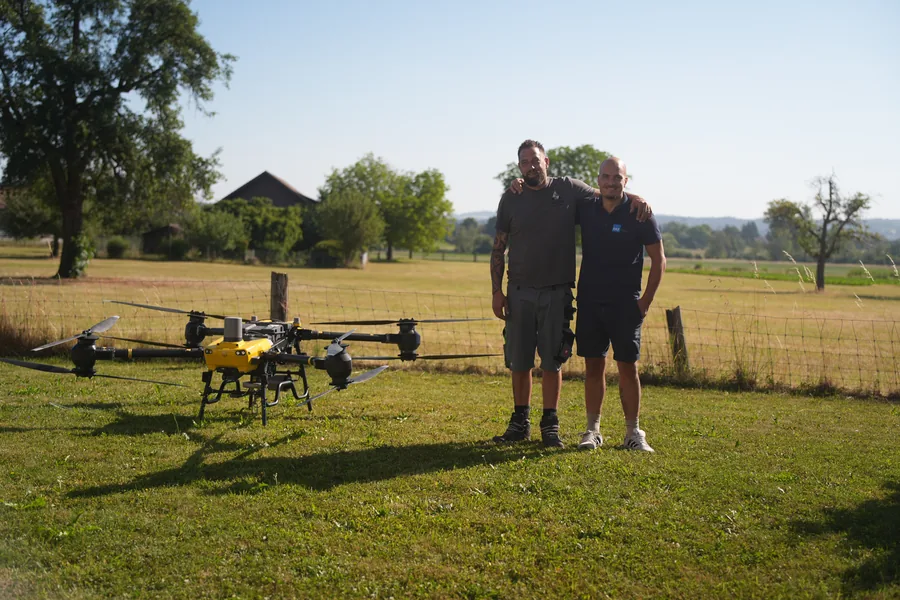
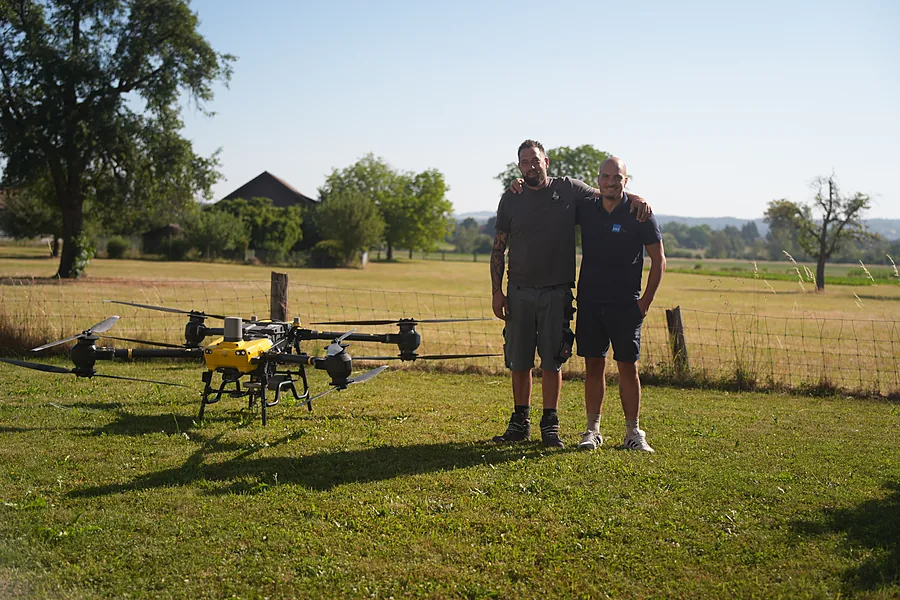
Slider: Fotos nachgeschärft, Fassung 3840 px, schärfere Alternative 113 zur Wahl (VES-026)
Claude-Session: https://claude.ai/code/session_01AmTsxfm8VPSTvFxMghAZew

diff --git a/entwuerfe/entwurf-e.html b/entwuerfe/entwurf-e.html
@@ -218,11 +218,11 @@ html[data-cap="ohne"] .cap{display:none}
 
 <div class="hero2" id="hero">
  <div class="slides" id="slides">
-  <figure class="slide on" data-t="Module kommen per Drohne aufs Dach" data-s="10:10" style="--d:50% 18%;--m:52% 20%"><img src="../fotos/auftrag/modul-annahme-1600.webp" srcset="../fotos/auftrag/modul-annahme-900.webp 900w, ../fotos/auftrag/modul-annahme-1600.webp 1600w, ../fotos/auftrag/modul-annahme-2400.webp 2400w, ../fotos/auftrag/modul-annahme-3200.webp 3200w" sizes="(max-width: 900px) 760px, 100vw" alt="Ein Solarmodul schwebt an der Drohne heran, drei Monteure auf dem Gerüst strecken die Hände danach"></figure>
-  <figure class="slide" data-t="Oben nimmt das Team sie an" data-s="10:10" style="--d:60% 35%;--m:66% 30%"><img src="../fotos/auftrag/team-geruest-1600.webp" srcset="../fotos/auftrag/team-geruest-900.webp 900w, ../fotos/auftrag/team-geruest-1600.webp 1600w, ../fotos/auftrag/team-geruest-2400.webp 2400w, ../fotos/auftrag/team-geruest-3200.webp 3200w" sizes="(max-width: 900px) 760px, 100vw" alt="Zwei Monteure mit Helm auf dem Gerüst schauen dem nächsten Modul entgegen" loading="lazy"></figure>
-  <figure class="slide" data-t="Der Pilot fliegt vom Kamin aus" data-s="09:44" style="--d:55% 40%;--m:52% 45%"><img src="../fotos/auftrag/pilot-kamin-1600.webp" srcset="../fotos/auftrag/pilot-kamin-900.webp 900w, ../fotos/auftrag/pilot-kamin-1600.webp 1600w, ../fotos/auftrag/pilot-kamin-2400.webp 2400w, ../fotos/auftrag/pilot-kamin-3200.webp 3200w" sizes="(max-width: 900px) 760px, 100vw" alt="Der Drohnenpilot sitzt mit Helm und Fernsteuerung auf dem Kamin" loading="lazy"></figure>
-  <figure class="slide" data-t="Unterbau ab halb acht" data-s="07:33" style="--d:50% 40%;--m:52% 40%"><img src="../fotos/auftrag/unterbau-morgen-1600.webp" srcset="../fotos/auftrag/unterbau-morgen-900.webp 900w, ../fotos/auftrag/unterbau-morgen-1600.webp 1600w, ../fotos/auftrag/unterbau-morgen-2400.webp 2400w, ../fotos/auftrag/unterbau-morgen-3200.webp 3200w" sizes="(max-width: 900px) 760px, 100vw" alt="Ein Monteur schraubt die Schienen der Unterkonstruktion auf das Ziegeldach" loading="lazy"></figure>
-  <figure class="slide" data-t="Drohne startklar" data-s="09:06" style="--d:62% 50%;--m:74% 50%"><img src="../fotos/auftrag/drohne-startklar-1600.webp" srcset="../fotos/auftrag/drohne-startklar-900.webp 900w, ../fotos/auftrag/drohne-startklar-1600.webp 1600w, ../fotos/auftrag/drohne-startklar-2400.webp 2400w, ../fotos/auftrag/drohne-startklar-3200.webp 3200w" sizes="(max-width: 900px) 760px, 100vw" alt="Zwei Männer stehen auf einer Wiese neben der startklaren Transportdrohne" loading="lazy"></figure>
+  <figure class="slide on" data-t="Module kommen per Drohne aufs Dach" data-s="10:10" style="--d:50% 18%;--m:52% 20%"><img src="../fotos/auftrag/modul-annahme-1600.webp" srcset="../fotos/auftrag/modul-annahme-900.webp 900w, ../fotos/auftrag/modul-annahme-1600.webp 1600w, ../fotos/auftrag/modul-annahme-2400.webp 2400w, ../fotos/auftrag/modul-annahme-3840.webp 3840w" sizes="(max-width: 900px) 760px, 100vw" alt="Ein Solarmodul schwebt an der Drohne heran, drei Monteure auf dem Gerüst strecken die Hände danach"></figure>
+  <figure class="slide" data-t="Oben nimmt das Team sie an" data-s="10:10" style="--d:60% 35%;--m:66% 30%"><img src="../fotos/auftrag/team-geruest-1600.webp" srcset="../fotos/auftrag/team-geruest-900.webp 900w, ../fotos/auftrag/team-geruest-1600.webp 1600w, ../fotos/auftrag/team-geruest-2400.webp 2400w, ../fotos/auftrag/team-geruest-3840.webp 3840w" sizes="(max-width: 900px) 760px, 100vw" alt="Zwei Monteure mit Helm auf dem Gerüst schauen dem nächsten Modul entgegen" loading="lazy"></figure>
+  <figure class="slide" data-t="Der Pilot fliegt vom Kamin aus" data-s="09:44" style="--d:55% 40%;--m:52% 45%"><img src="../fotos/auftrag/pilot-kamin-1600.webp" srcset="../fotos/auftrag/pilot-kamin-900.webp 900w, ../fotos/auftrag/pilot-kamin-1600.webp 1600w, ../fotos/auftrag/pilot-kamin-2400.webp 2400w, ../fotos/auftrag/pilot-kamin-3840.webp 3840w" sizes="(max-width: 900px) 760px, 100vw" alt="Der Drohnenpilot sitzt mit Helm und Fernsteuerung auf dem Kamin" loading="lazy"></figure>
+  <figure class="slide" data-t="Unterbau ab halb acht" data-s="07:33" style="--d:50% 40%;--m:52% 40%"><img src="../fotos/auftrag/unterbau-morgen-1600.webp" srcset="../fotos/auftrag/unterbau-morgen-900.webp 900w, ../fotos/auftrag/unterbau-morgen-1600.webp 1600w, ../fotos/auftrag/unterbau-morgen-2400.webp 2400w, ../fotos/auftrag/unterbau-morgen-3840.webp 3840w" sizes="(max-width: 900px) 760px, 100vw" alt="Ein Monteur schraubt die Schienen der Unterkonstruktion auf das Ziegeldach" loading="lazy"></figure>
+  <figure class="slide" data-t="Drohne startklar" data-s="09:06" style="--d:62% 50%;--m:74% 50%"><img src="../fotos/auftrag/drohne-startklar-1600.webp" srcset="../fotos/auftrag/drohne-startklar-900.webp 900w, ../fotos/auftrag/drohne-startklar-1600.webp 1600w, ../fotos/auftrag/drohne-startklar-2400.webp 2400w, ../fotos/auftrag/drohne-startklar-3840.webp 3840w" sizes="(max-width: 900px) 760px, 100vw" alt="Zwei Männer stehen auf einer Wiese neben der startklaren Transportdrohne" loading="lazy"></figure>
  </div>
  <a class="cap" href="#system" id="cap"><span id="cap-s">10:10</span><b id="cap-t">Module kommen per Drohne aufs Dach</b><span class="cap-l">→</span></a>
  <div class="live" id="live">
@@ -483,6 +483,10 @@ sonnendach($('sdq').value);
 /* ---------- Kopf: Foto (1) oder Slider (2) ---------- */
 (function(){
  const q=new URLSearchParams(location.search), mode=q.get('hero')||'2', r=document.documentElement; r.dataset.hero=mode; if(q.get('cap')) r.dataset.cap=q.get('cap');
+ if(q.get('erstes')==='113'){ const f=document.querySelector('.slide'), im=f.querySelector('img'), b='../fotos/auftrag/modul-griff';
+  im.srcset=b+'-900.webp 900w, '+b+'-1600.webp 1600w, '+b+'-2400.webp 2400w, '+b+'-3840.webp 3840w'; im.src=b+'-1600.webp';
+  im.alt='Ein Monteur greift mit beiden Händen nach dem Solarmodul, das die Drohne heranbringt';
+  f.style.setProperty('--d','55% 72%'); f.style.setProperty('--m','50% 40%'); }
  const hero=document.getElementById('hero'), slides=[...document.querySelectorAll('.slide')], bars=[...document.querySelectorAll('#bars button')];
  const capT=document.getElementById('cap-t'), capS=document.getElementById('cap-s');
  const DUR=6000; let i=0, tm=null;

diff --git a/werkzeuge/fotos-aufbereiten.py b/werkzeuge/fotos-aufbereiten.py
@@ -3,18 +3,20 @@
 
 Nimmt Originale (JPG, auch 20 MB aus der Kamera), dreht sie nach EXIF richtig,
 entfernt die Metadaten (GPS, Kamera) und schreibt WebP in drei Breiten für
-srcset: 3200, 2400, 1600 und 900 px. Dazu ein Kontaktbogen zur Auswahl.
+srcset: 3840, 2400, 1600 und 900 px, nach dem Verkleinern leicht nachgeschärft. Dazu ein Kontaktbogen zur Auswahl.
 
     python3 werkzeuge/fotos-aufbereiten.py ORDNER_MIT_ORIGINALEN fotos/auftrag
 
-Ergebnis: fotos/auftrag/NAME-3200.webp, -2400.webp, -1600.webp, -900.webp und
+Ergebnis: fotos/auftrag/NAME-3840.webp, -2400.webp, -1600.webp, -900.webp und
 fotos/auftrag/kontaktbogen.jpg. Die Originale bleiben, wo sie sind, und
 kommen nicht ins Repository.
 """
 import sys, pathlib
-from PIL import Image, ImageOps, ImageDraw
+from PIL import Image, ImageOps, ImageDraw, ImageFilter
 
-BREITEN = (3200, 2400, 1600, 900)
+BREITEN = (3840, 2400, 1600, 900)
+# Nach dem Verkleinern leicht nachschärfen, sonst wirkt das Bild weich.
+SCHAERFEN = ImageFilter.UnsharpMask(radius=1.0, percent=70, threshold=2)
 QUALITAET = 82
 
 def aufbereiten(quelle: pathlib.Path, ziel: pathlib.Path):
@@ -30,6 +32,7 @@ def aufbereiten(quelle: pathlib.Path, ziel: pathlib.Path):
             k = im.copy()
             if k.width > b:
                 k = k.resize((b, round(k.height * b / k.width)), Image.LANCZOS)
+            k = k.filter(SCHAERFEN)
             k.save(ziel / f'{name}-{b}.webp', 'WEBP', quality=QUALITAET, method=6)
         groesse = sum((ziel / f'{name}-{b}.webp').stat().st_size for b in BREITEN) // 1024
         print(f'{p.name}: {im.width}x{im.height} -> {name}-*.webp ({groesse} KB zusammen)')

diff --git a/LOGBUCH.md b/LOGBUCH.md
@@ -240,3 +240,21 @@ Die Vorgeschichte steht im formateins-Logbuch unter ENT-078 bis ENT-082.
   (`entwuerfe/bilder/schaerfe-vergleich.jpg`). Fünf Slider-Bilder neu
   aufbereitet, zusammen 4,4 MB in vier Grössen; ein Handy lädt pro Bild
   etwa 100 bis 330 KB.
+- [ ] **VES-026** · 03.11.2026 · **Webseite immer noch unscharf** (Adrian,
+  Screenshot vom Mac neben seiner Vorlage: «vergleiche mal die Bilder!!
+  Webseite ist doch nicht scharf?»). Gemessen statt behauptet: Sein Fenster
+  ist rund 1920 CSS-Pixel breit mit Retina, das Bild füllt den Kopf über die
+  ganze Breite und wird darum fast in Originalgrösse gezeigt; seine Vorlage
+  zeigt das ganze Foto nur 1536 px breit. Die Datei auf der Seite ist so
+  scharf wie das Original (Gesichtsvergleich
+  `entwuerfe/bilder/gesicht-original-datei-screenshot.jpg`), aber das
+  Original A7408112 ist bei 100 % selbst weich: Arme in Bewegung, Gesicht
+  leicht unscharf. Gross gezeigt wird das sichtbar. Massnahmen:
+  `werkzeuge/fotos-aufbereiten.py` schärft nach dem Verkleinern leicht nach
+  (Unscharf maskieren, Radius 1, 70 %), grösste Fassung 3840 statt 3200 px
+  für 1920er Retina-Bildschirme, alle Slider-Bilder neu. Schärfe aller
+  Aufnahmen der Serie gemessen: A7408113 und A7408114 (eine Sekunde später)
+  sind etwa doppelt so scharf wie 112. A7408113 links ohne Kamin
+  zugeschnitten als `modul-griff`, in der Vorschau anwählbar mit
+  `?erstes=113`. Vergleich `entwuerfe/bilder/vergleich-112-113-*.jpg`.
+  Offen: Adrian wählt 112 (nachgeschärft) oder 113.
